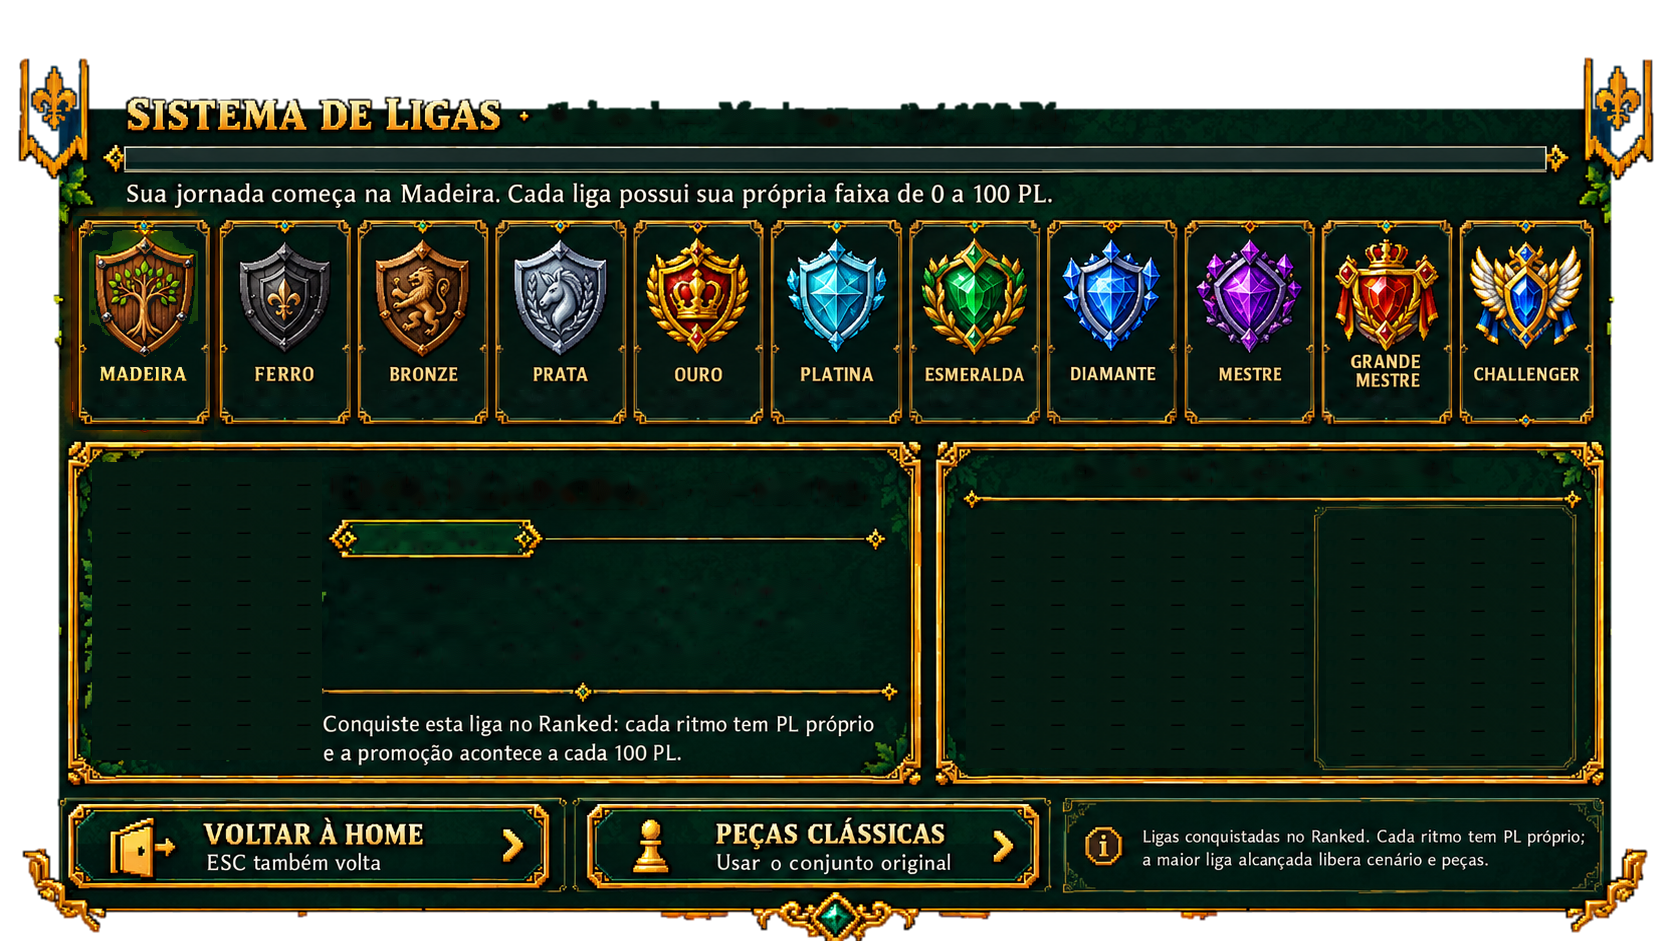
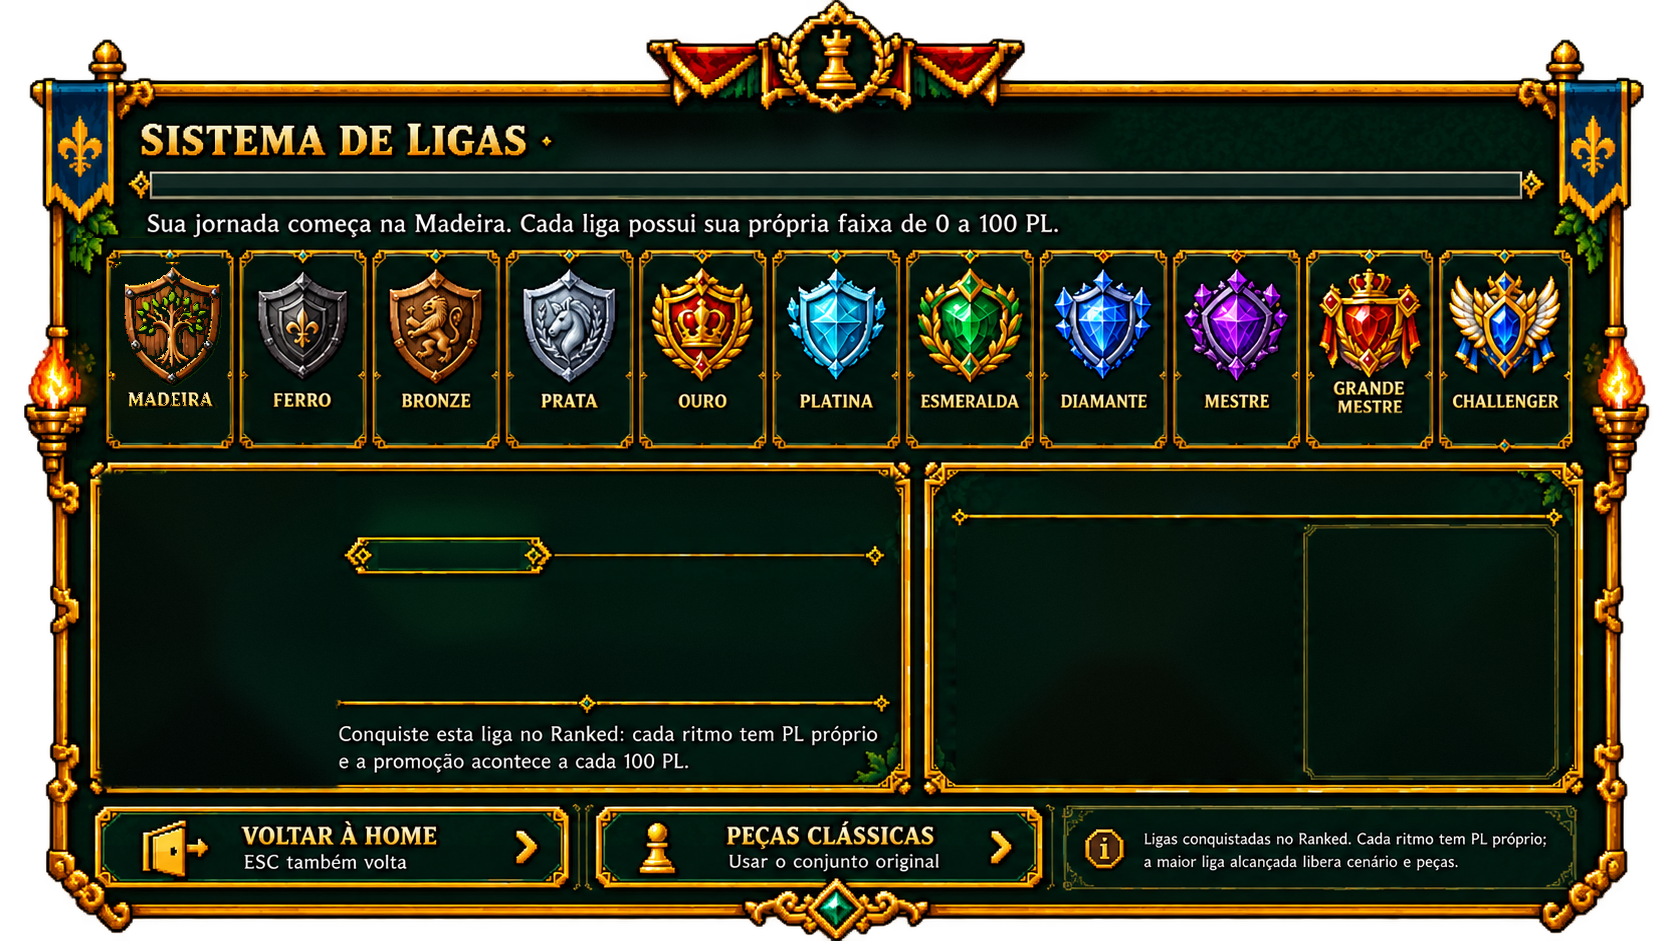
R51c/R51d: barra do Histórico funcional + Sistema de Ligas refeito
- Histórico: a barra de rolagem da arte agora rola a lista (alça, trilho e setas)
  e acompanha a roda/arrasto; painel centralizado entre a faixa e o rodapé.
- Ligas: painel novo a partir da referência do dono (fundo transparente, sem
  recorte do cenário), abre com fade sobre a Home escurecida, destaque sutil
  da liga escolhida; seleção, Peças Clássicas e Voltar continuam funcionando.
- Testes de captura: tests/history_scroll_shots.gd e tests/ligas_shots.gd.

Claude-Session: https://claude.ai/code/session_016vKvXoMfUjcNC2AWvYdkWV

diff --git a/tools/ref_pages_build.py b/tools/ref_pages_build.py
@@ -25,7 +25,6 @@ FRAME = {
     'about_bg': dict(ref='conheca', inner=(100, 44, 1796, 795), clip=(96, 36, 1800, 829), keep=[(880, 0, 1016, 60)]),
     'config_bg': dict(ref='config', inner=(40, 80, 1310, 1140), cuts=[(0, 300, 36, 1000), (1316, 300, 1353, 1000)]),
     'bots_bg': dict(ref='bots', inner=(60, 110, 1610, 910)),
-    'ligas_bg': dict(ref='ligas', inner=(60, 110, 1610, 910), cuts=[(0, 400, 55, 850), (1615, 400, 1672, 850)]),
     'perfil_bg': dict(ref='perfil', inner=(20, 40, 1210, 370)),
 }
 def frame_alpha(a, inner, clip=None, keep=(), cuts=()):
@@ -256,6 +255,91 @@ def build_ligas():
     save(out, 'ligas_bg')
     print('ligas ok')
 
+# ======================================================================= LIGAS v2 (R51d)
+## Referência nova do dono (tools/ui_ref/ligas_v2.png): o painel já vem recortado (fundo transparente, com
+## bandeiras e tochas). Nada do cenário entra. Saem só as partes vivas (o jogo desenha): nome/liga/PL, estado de
+## cada liga, o destaque da Madeira (vira cartão comum), brasão/título/estado/descrição da liga escolhida,
+## título da prévia, cenário e peças.
+LIGA2_TILES = [(107, 233), (240, 365), (373, 498), (506, 632), (640, 765), (773, 899), (907, 1032), (1040, 1166),
+               (1174, 1298), (1306, 1432), (1440, 1571)]
+LIGA2_Y = (250, 447)
+
+def flat_fill(a, box, feather=3, ring=6):
+    """Preenche a caixa com o fundo liso do painel. O tom vem do entorno escuro (estimativa de baixa frequência:
+    inpaint numa cópia reduzida, ignorando dourados/folhas), então acompanha o degradê do painel sem emenda."""
+    x0, y0, x1, y1 = box
+    h, w = a.shape[:2]
+    rx0, ry0, rx1, ry1 = max(0, x0 - 48), max(0, y0 - 48), min(w, x1 + 48), min(h, y1 + 48)
+    crop = a[ry0:ry1, rx0:rx1, :3].astype(np.float32)
+    bad = (lum(np.clip(crop, 0, 255).astype(np.uint8)) > 34).astype(np.uint8)
+    bad[y0 - ry0:y1 - ry0, x0 - rx0:x1 - rx0] = 1
+    k = 6
+    sw, sh = max(2, crop.shape[1] // k), max(2, crop.shape[0] // k)
+    small = cv2.resize(crop, (sw, sh), interpolation=cv2.INTER_AREA)
+    sbad = (cv2.resize(bad.astype(np.float32), (sw, sh), interpolation=cv2.INTER_AREA) > 0.05).astype(np.uint8)
+    small = cv2.inpaint(np.clip(small, 0, 255).astype(np.uint8), sbad, 4, cv2.INPAINT_TELEA).astype(np.float32)
+    small = cv2.GaussianBlur(small, (5, 5), 0)
+    est = cv2.resize(small, (crop.shape[1], crop.shape[0]), interpolation=cv2.INTER_LINEAR)
+    m = np.zeros(crop.shape[:2], np.float32)
+    m[y0 - ry0:y1 - ry0, x0 - rx0:x1 - rx0] = 1
+    if feather: m = cv2.GaussianBlur(m, (feather * 2 + 1, feather * 2 + 1), 0)
+    rng = np.random.default_rng(x0 * 7 + y0)
+    fill = np.clip(est + rng.normal(0, 1.0, crop.shape[:2] + (1,)), 0, 255)
+    out = a.astype(float)
+    out[ry0:ry1, rx0:rx1, :3] = crop * (1 - m[..., None]) + fill * m[..., None]
+    return out
+
+def build_ligas_v2():
+    src = np.array(Image.open(os.path.join(REF, 'ligas_v2.png')).convert('RGBA')).astype(int)
+    al = src[..., 3].copy()
+    al[al >= 240] = 255
+    a = src[..., :3].copy()
+    out = a.astype(float)
+    # 1) cabeçalho: fica "SISTEMA DE LIGAS ·"; sai "Gabriel — Madeira · 0 / 100 PL"
+    out = flat_fill(out, (558, 112, 1112, 168))
+    # 2) cartão da Madeira: moldura comum (cópia da faixa do Ferro, com a joia e o vão) + brasão/nome da Madeira
+    y0, y1 = 238, 460
+    out[y0:y1, 107:240] = a[y0:y1, 240:373]
+    # margem esquerda (o brilho do destaque vazava): espelho da margem direita, igual ao resto do painel
+    out[y0:y1, 76:107] = a[y0:y1, 1572:1603][:, ::-1]
+    # miolo do cartão copiado: sai brasão/nome/estado do Ferro
+    out = flat_fill(out, (113, 258, 228, 440), feather=2, ring=3)
+    # brasão + nome da Madeira (fonte: cartão destacado, centro 165.5 -> novo centro 170)
+    sub = a[262:412, 104:228]
+    l = lum(sub); sat = sub.max(axis=2) - sub.min(axis=2)
+    bgc = np.median(a[300:400, 104:112].reshape(-1, 3), axis=0)
+    dist = np.abs(sub - bgc[None, None, :]).sum(axis=2)
+    ff = ((dist < 70) & (l < 90)).astype(np.uint8) * 255   # fundo verde do cartão
+    fm = np.zeros((sub.shape[0] + 2, sub.shape[1] + 2), np.uint8)
+    reg = ff.copy()
+    for (x, yy) in [(0, 0), (sub.shape[1] - 1, 0), (0, sub.shape[0] - 1), (sub.shape[1] - 1, sub.shape[0] - 1), (2, 70), (sub.shape[1] - 3, 70)]:
+        if reg[yy, x] == 255: cv2.floodFill(reg, fm, (x, yy), 128)
+    keep = (reg != 128)
+    keep &= ~((dist < 70) & (l < 90))          # sobras do verde do cartão destacado
+    keep &= ~(((sub[..., 1] - sub[..., 0]) > 12) & (l < 75))   # sombra verde escura em volta do brasão
+    keep[:, :3] = False; keep[:, -3:] = False
+    keep = cv2.morphologyEx(keep.astype(np.uint8) * 255, cv2.MORPH_OPEN, np.ones((2, 2), np.uint8)) > 0
+    sx = 4
+    tgt = out[262:412, 104 + sx:228 + sx]
+    tgt[keep] = sub[keep]
+    out[262:412, 104 + sx:228 + sx] = tgt
+    # 3) estado de cada liga (DISPONÍVEL / BLOQUEADA) sai
+    for (x0, x1) in LIGA2_TILES:
+        out = flat_fill(out, (x0 + 10, 413, x1 - 10, 437), feather=2, ring=3)
+    # 4) painel da liga: brasão com folhas, título, texto do chip e descrição saem
+    out = flat_fill(out, (100, 472, 338, 788), feather=4, ring=6)
+    out = flat_fill(out, (330, 574, 350, 700), feather=2, ring=3)     # pontas de folha da coroa do brasão
+    out = flat_fill(out, (344, 476, 896, 534))
+    out = flat_fill(out, (378, 543, 520, 568), feather=1, ring=2)
+    out = flat_fill(out, (348, 582, 896, 694))
+    # 5) prévia: título, cenário e peças saem (as molduras ficam)
+    out = flat_fill(out, (1040, 472, 1460, 512))
+    out = flat_fill(out, (956, 526, 1294, 779), feather=1, ring=2)
+    out = flat_fill(out, (1314, 534, 1550, 772), feather=2, ring=3)
+    rgba = np.dstack([np.clip(out, 0, 255).astype(np.uint8), al.astype(np.uint8)])
+    Image.fromarray(rgba, 'RGBA').save(os.path.join(OUT, 'ligas_bg.png'))
+    print('ligas v2 ok')
+
 # ======================================================================= HISTÓRICO DE PARTIDAS
 HIST_TABS = [(68, 310), (320, 590), (601, 800), (812, 1065), (1077, 1277), (1290, 1541), (1555, 1793)]
 HIST_TAB_Y = (140, 207)
@@ -474,7 +558,7 @@ def build_perfil():
 
 if __name__ == '__main__':
     build_bots()
-    build_ligas()
+    build_ligas_v2()   # R51d: referência nova já recortada (a antiga build_ligas fica só como histórico)
     build_historico()
     build_conheca()
     build_config()
